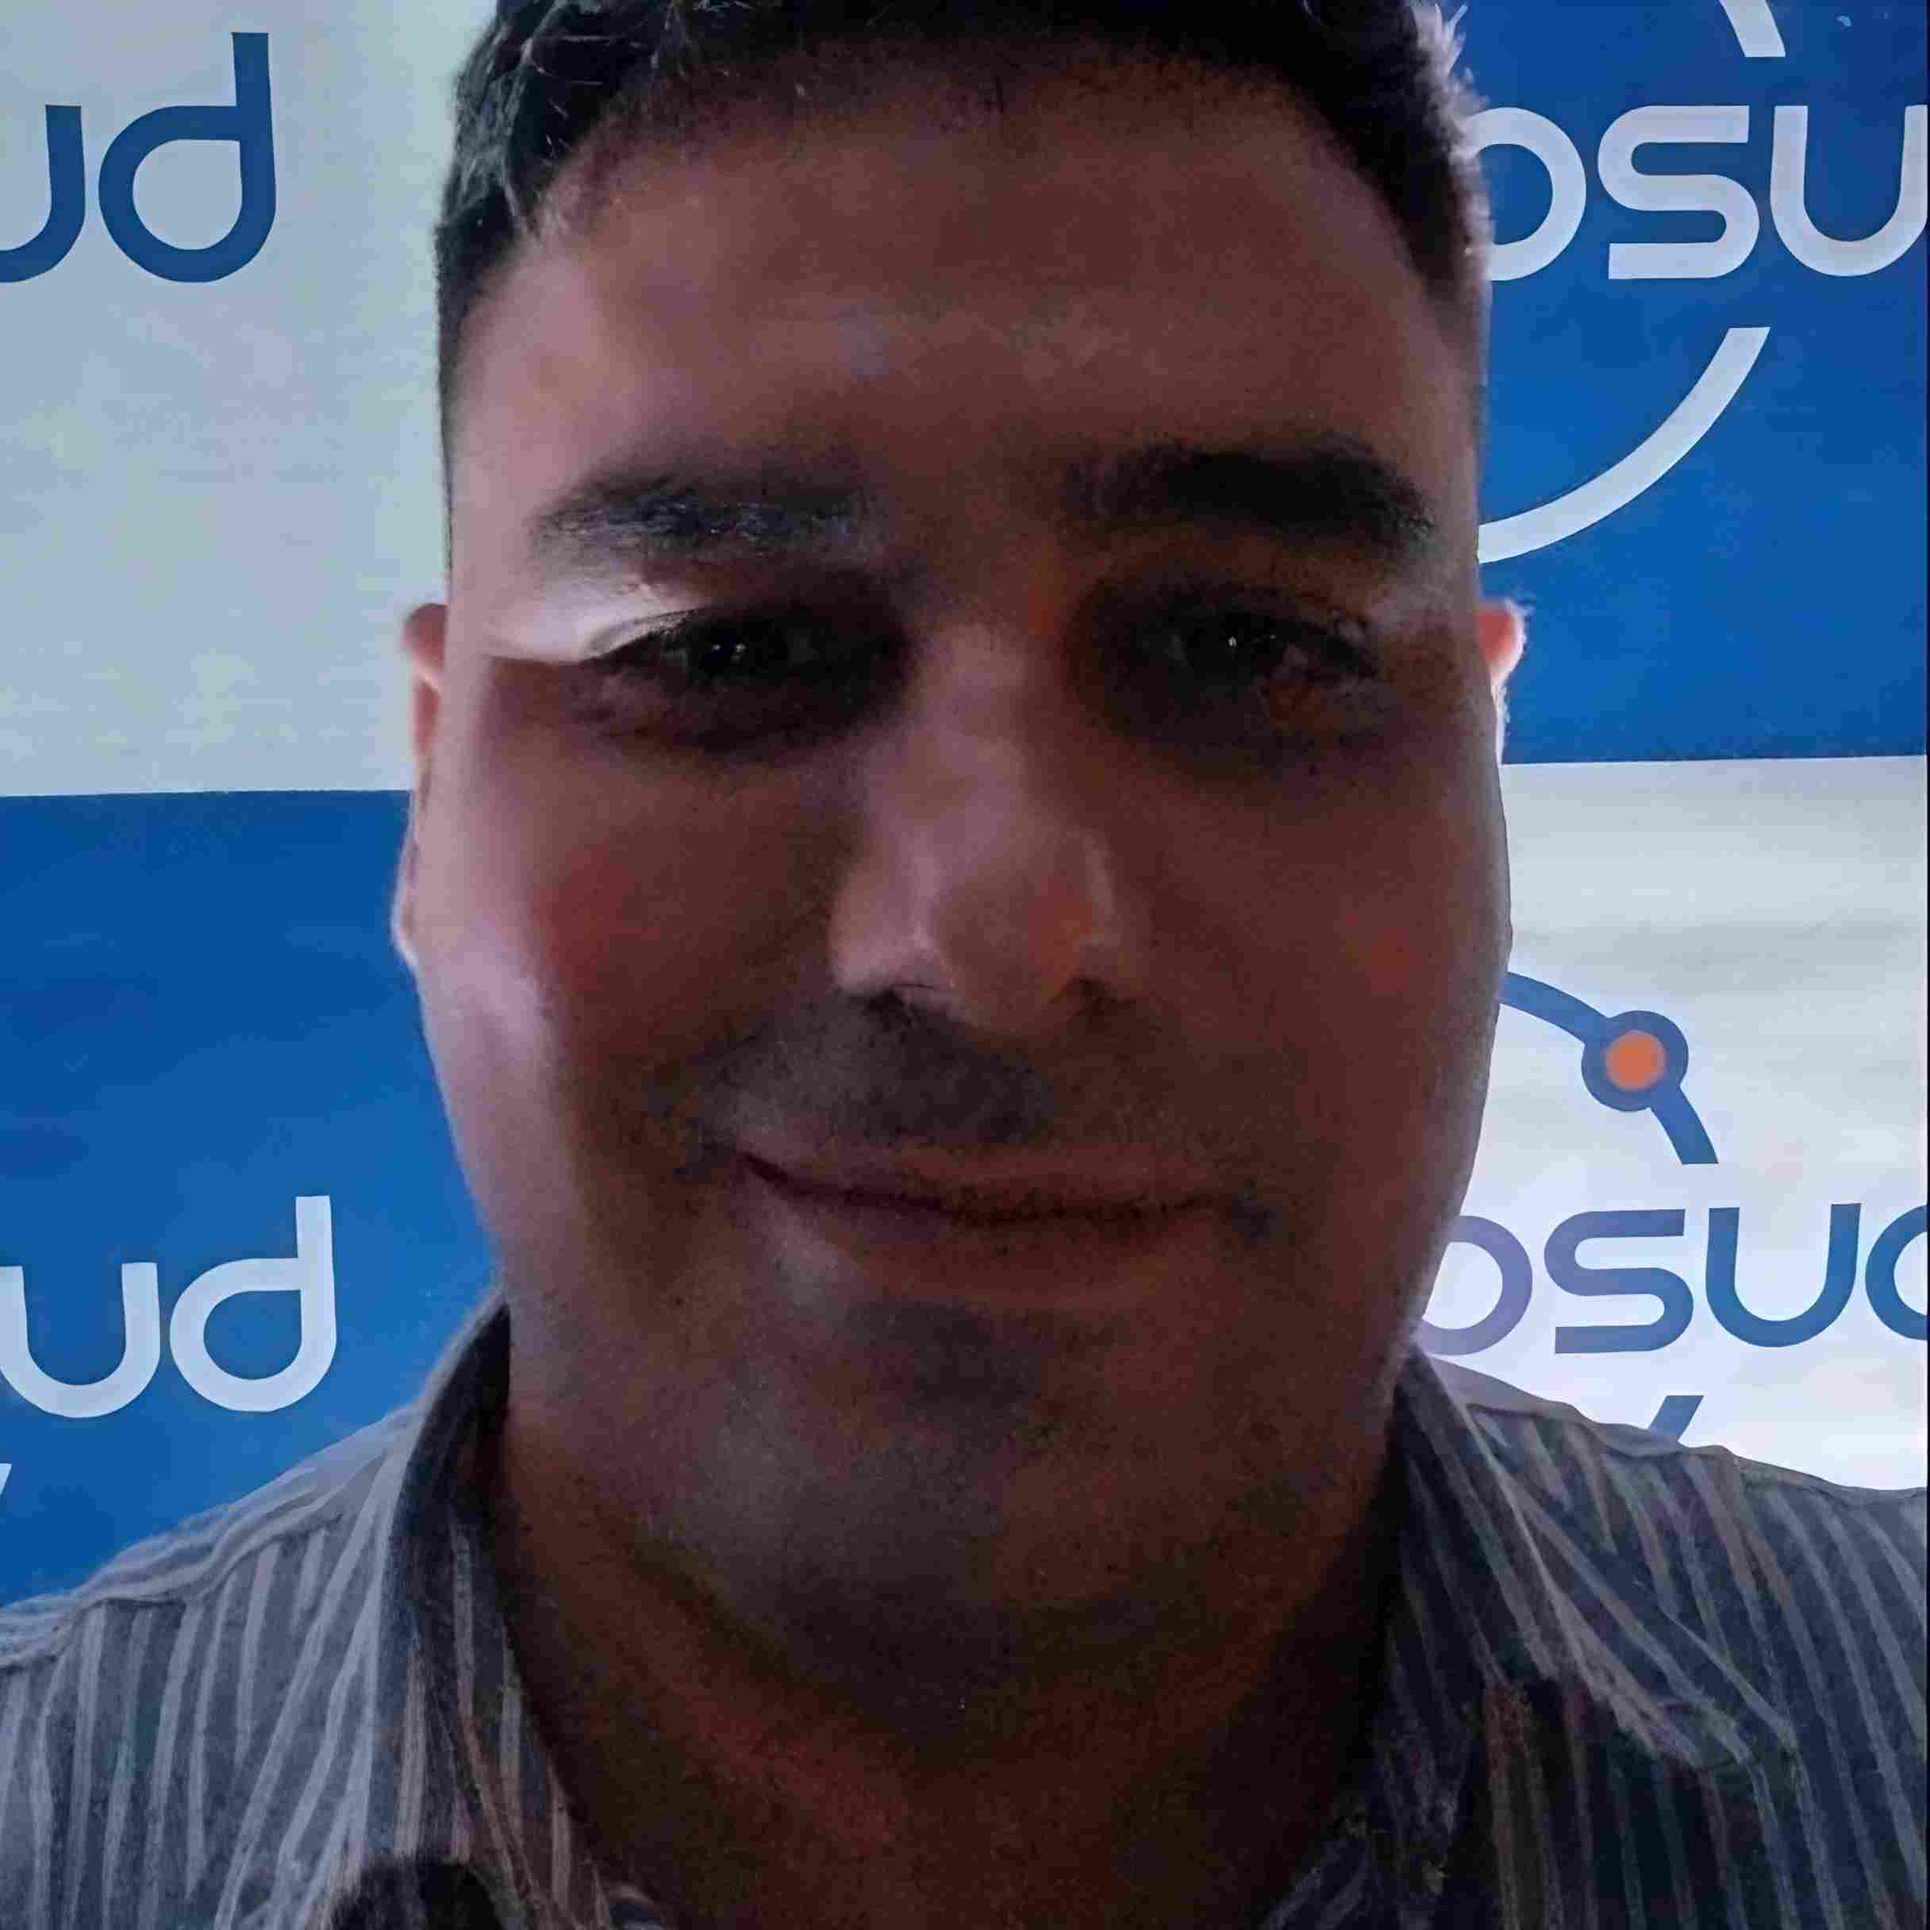
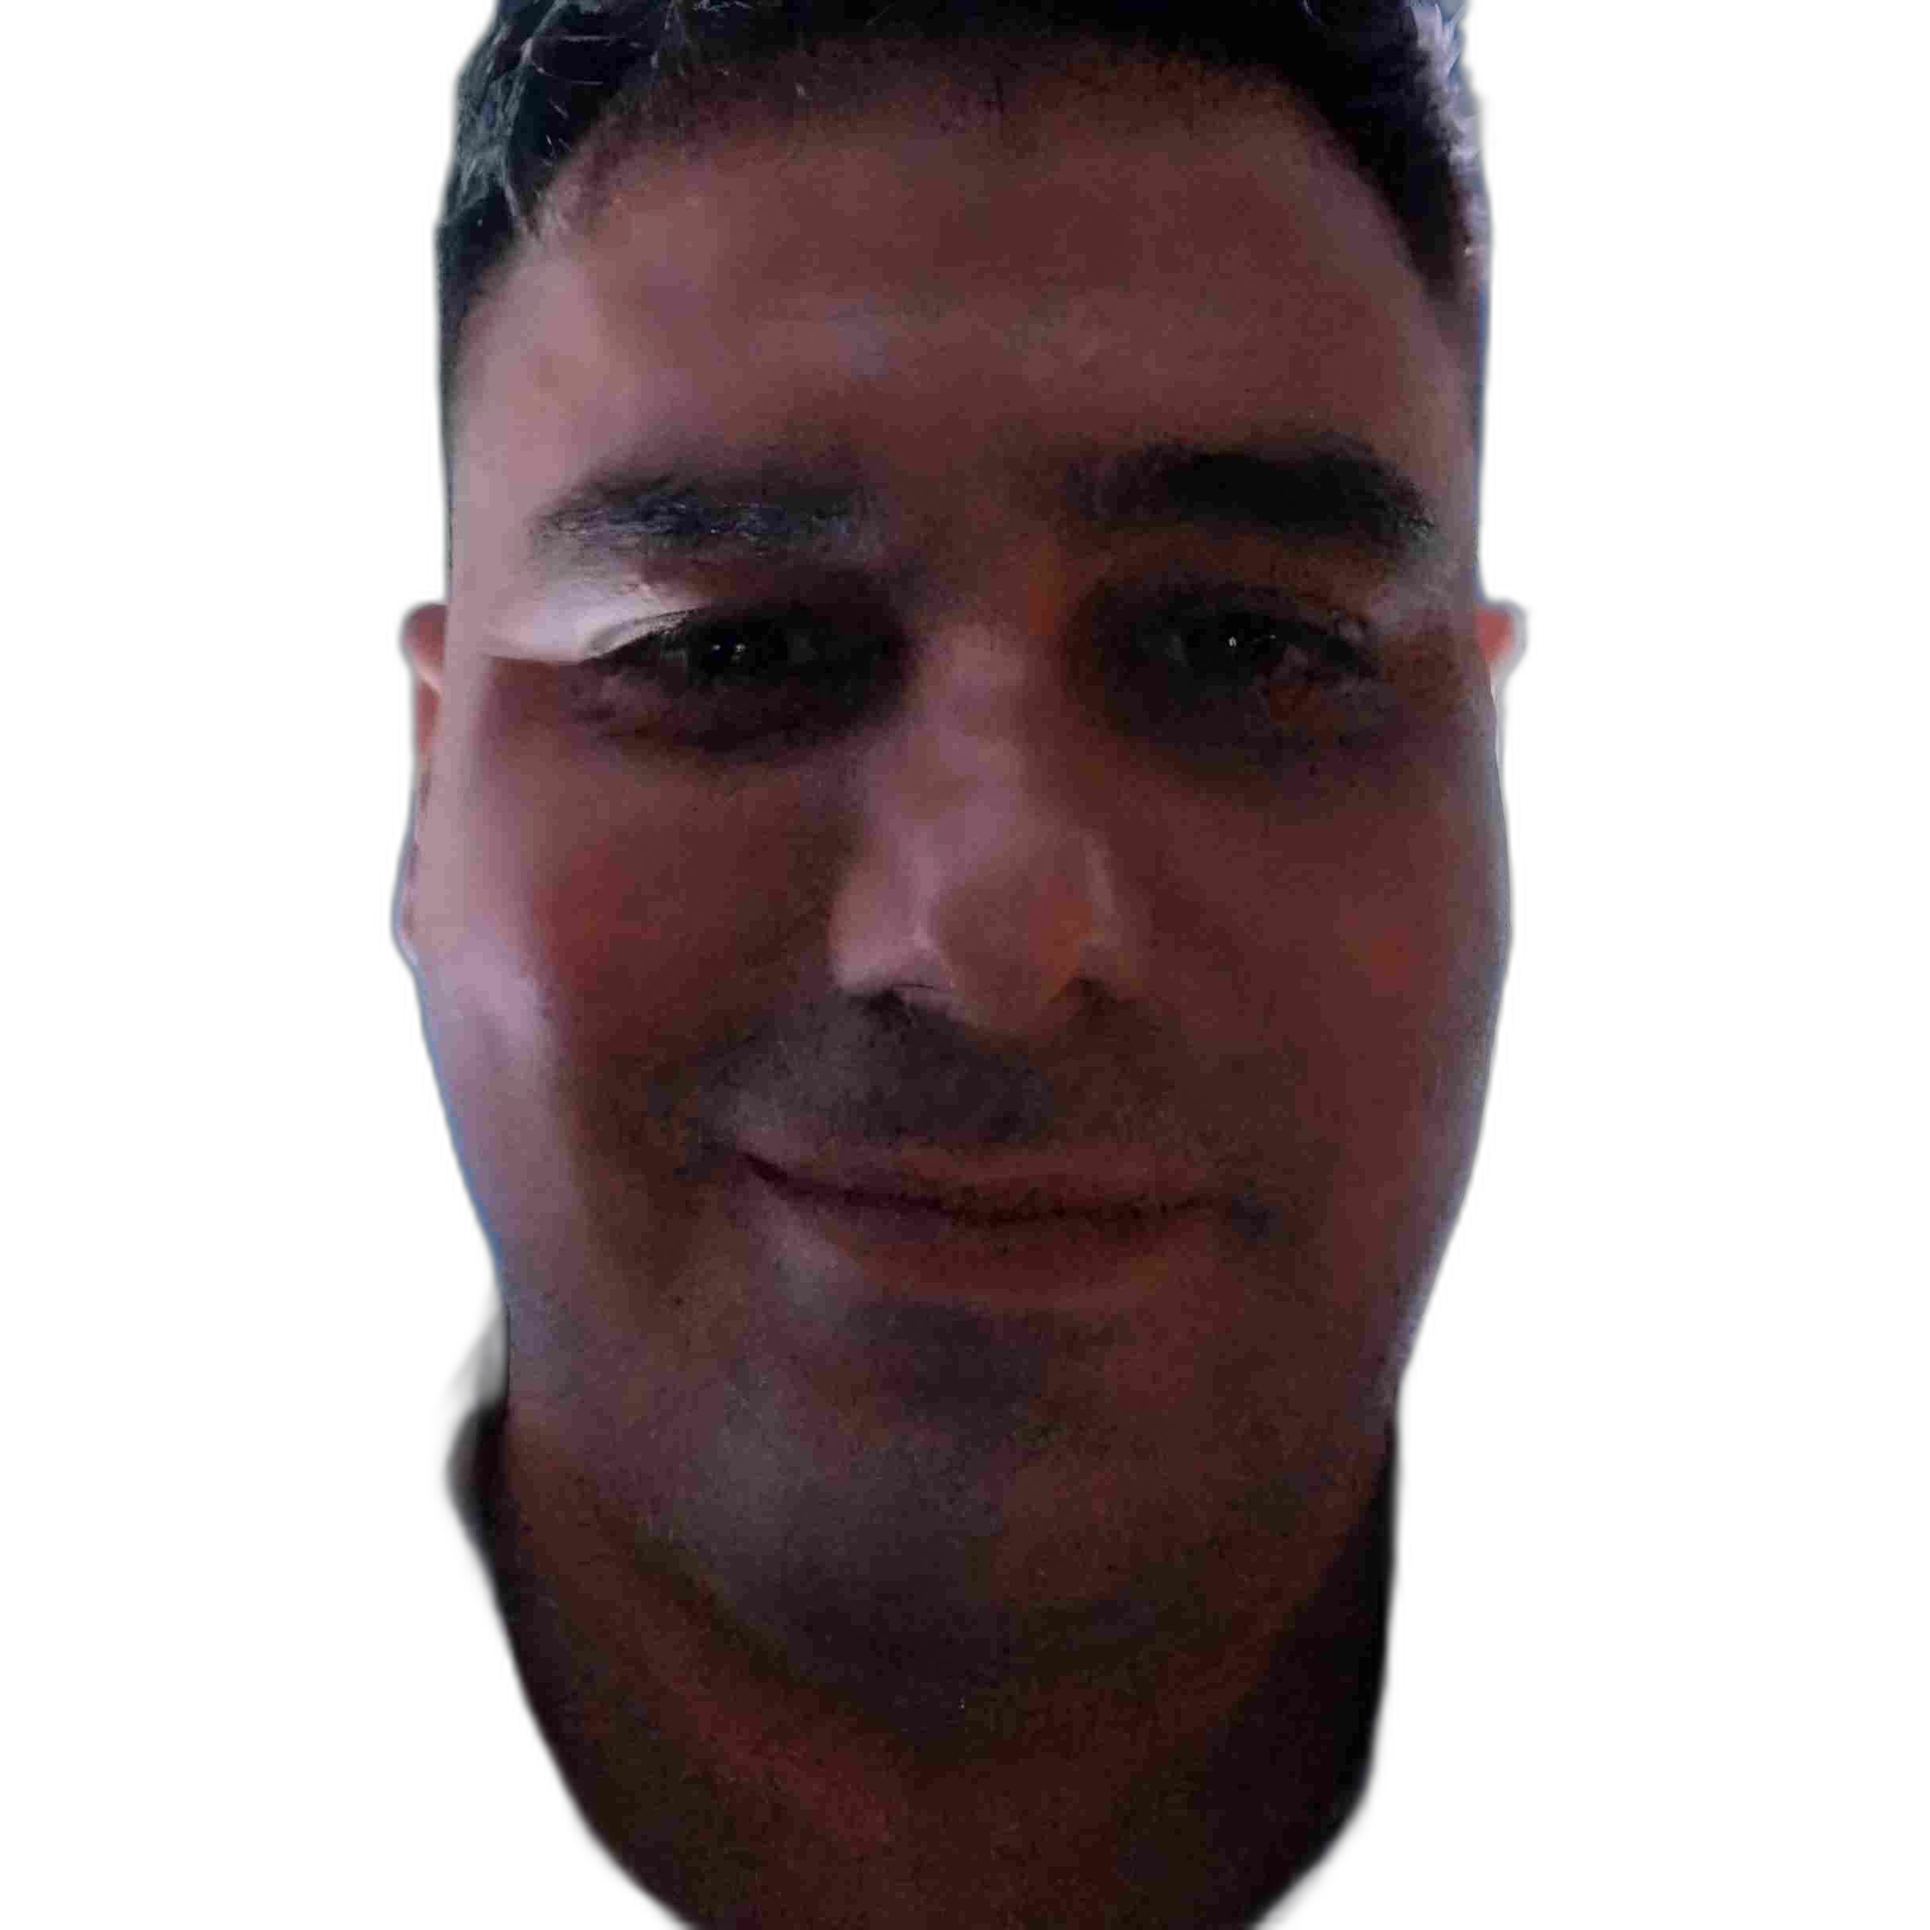
se agrego cambios en la estructura de app.py ademas se sumo un proyecto de graficos

diff --git a/views/pag_plotly.py b/views/pag_plotly.py
@@ -1,0 +1,159 @@
+import streamlit as st 
+import pandas as pd
+import plotly.express as px
+
+from scripts.datos_ejemplo import generar_datos
+
+
+
+st.title("Dashboard de ventas")
+
+
+def cargar_datos():
+    data = generar_datos()
+    df = pd.DataFrame(data)
+    return df
+
+df = cargar_datos()
+
+
+# 2. Widgets interactivos en sidebar
+with st.sidebar:
+    st.header("Filtros")
+    categorias_seleccionada = st.multiselect("Categorias", options=df["Categoria"].unique(), default=df["Categoria"].unique())
+    rango_fechas = st.date_input("Rango de Fechas", value=[df["Fecha"].min(), df["Fecha"].max() ])
+
+
+
+# 3. Filtrar datos
+df_filtrado = df[
+    (df["Categoria"].isin(categorias_seleccionada) ) &
+    (df["Fecha"].between(pd.to_datetime(rango_fechas[0]), pd.to_datetime(rango_fechas[1]) ) )
+]
+
+# st.dataframe(df)
+# st.write(df_filtrado)
+
+
+# 4. Gráficos interactivos
+tab1, tab2, tab3, tab4, tab5 = st.tabs(["Series Temporales", "Geográfico", "Relaciones", "Distribución", "Otros Graficos"]) 
+
+with tab1:
+    # Gráfico de línea con Plotly
+    fig_line = px.line(
+        df_filtrado.groupby("Fecha")["Ventas"].sum().reset_index(),
+        x="Fecha",
+        y="Ventas",
+        title="Tendencias de Ventas Diarias"
+    )
+    st.plotly_chart(fig_line, use_container_width=True)
+
+with tab2:
+    # Mapa interactivo
+    fig_map = px.scatter_geo(
+        df_filtrado,
+        lat="Latitud",
+        lon="Longitud",
+        color="Region",
+        size="Ventas",
+        hover_name="Categoria",
+        projection="natural earth"
+    )
+    st.plotly_chart(fig_map, use_container_width=True)
+
+
+with tab3:
+    # Scatter plot con selección de ejes
+    col1, col2 = st.columns(2)
+    with col1:
+        eje_x = st.selectbox("Eje x", options=["Ventas", "Beneficio", "Rating"])
+    with col2:
+        eje_y = st.selectbox("Eje y", options=["Beneficio", "Rating", "Ventas"])
+    
+    fig_scatter = px.scatter(
+        df_filtrado,
+        x=eje_x,
+        y=eje_y,
+        color="Categoria",
+        trendline="lowess"
+    )
+    st.plotly_chart(fig_scatter, use_container_width=True)
+    
+with tab4:
+    # histograma dinamico
+    bins = st.slider("Numero de bins:", min_value=5, max_value = 50, value = 20, step=5)
+    fig_hist = px.histogram(
+        df_filtrado, 
+        x="Ventas",
+        nbins=bins,
+        color="Region",
+        barmode="overlay"
+    )
+    st.plotly_chart(fig_hist)
+
+with tab5:
+    #Otros graficos
+
+    # Usando el dataset de práctica anterior
+    fig = px.choropleth(
+    df,
+    locations="Region",  # Columna con nombres de países/regiones
+    locationmode="country names",
+    color="Ventas",
+    hover_name="Categoria",
+    animation_frame=df["Fecha"].dt.month,  # Animación por mes 
+    projection="natural earth",
+    title="Ventas Globales por Mes"
+    )
+    fig.update_layout(height=600)
+    st.plotly_chart(fig)
+
+    st.divider()
+    df_radar = df_filtrado.groupby("Categoria")[["Ventas", "Beneficio", "Rating"]].mean().reset_index()
+    fig = px.line_polar(
+    df_radar,
+    title="Grafico Radar con Filtro",
+    r="Ventas",
+    theta="Categoria",
+    line_close=True,
+    color="Beneficio"
+    ,template="plotly_dark"
+    )
+    st.plotly_chart(fig)
+
+    st.divider()
+    tipo_grafico = st.selectbox("Elige el Grafico:", ["Box", "Violin", "Sunburst"])
+
+    match tipo_grafico:
+
+        case "Box":
+            st.write("Box")
+            fig = px.box(df_filtrado, 
+            x="Region", 
+            y="Ventas", 
+            color="Categoria")
+
+        case "Violin":
+            st.write("Violin")
+            fig = px.violin(df_filtrado, 
+            x="Region", 
+            y="Beneficio", 
+            color="Region" ,
+            box=True)
+
+        case "Sunburst":
+            st.write("Sunburst")
+            fig = px.sunburst(
+            df_filtrado, 
+            path=["Region", "Categoria"] , 
+            values="Ventas")
+
+    st.plotly_chart(fig)
+        
+
+
+with st.expander("Datos Filtrados"):
+    st.dataframe(df_filtrado, height=200)
+
+
+    

diff --git a/app.py b/app.py
@@ -1,42 +1,40 @@
 import streamlit as st
 
-from views.pag_compresion_imagen import comprimir_imagens_pag
 
 # --- Configuracion de Pagina ---
-def configuracion_pagina():
-    st.set_page_config(
-        page_title="David Carusso"
+def configuraciones():
+    st.set_page_config(page_title="David Carusso")
+
+ 
+# --- Crea el objeto pagina para luego agrupparlos --- 
+def paginas():
+    pagina_1 = st.Page(
+    page= "views/pag_aboutme.py",
+    title= "Acerca de mi",
+    default=True 
     )
 
-
-def iniciar_menu(): 
-    # --- Crea el objeto pagina para luego agrupparlos --- 
-    pagina_1 = st.Page(
-                page= "views/pag_aboutme.py",
-                title= "Acerca de mi",
-                default=True 
-            )
-
     pagina_2 = st.Page(
-                page= "views/pag_compresion_imagen.py",
-                title="Comprimir Imagen"
-            )
+    page= "views/pag_compresion_imagen.py",
+    title="Comprimir Imagen"
+    )
+
+    pagina_3 = st.Page(
+    page="views/pag_plotly.py",
+    title="Graficos Plotly"
+    )
 
     # --- Crear un diccionario para agrupar en un indice --- 
     pages =  {
-            "Informacion" : [pagina_1] , 
-            "Proyectos" : [pagina_2]
-        }
+    "Informacion" : [pagina_1] , 
+    "Proyectos" : [pagina_2, pagina_3]
+    }
 
     # --- Crea el objeto multipagina --- 
     pg = st.navigation(pages)
     pg.run()
 
 
-# --- Inicializacion de funciones ---
 if __name__ == "__main__":
-    configuracion_pagina()
-    iniciar_menu()
-
-
-
+    configuraciones()
+    paginas()

diff --git a/views/pag_compresion_imagen.py b/views/pag_compresion_imagen.py
@@ -4,9 +4,26 @@ import io
 
 
 
+def descargar_foto(buffer):
+    """
+    Ingresa un buffer que el la imagen comprimida para descargar
+    
+    """
+
+    # Descargar archivo
+    ext = ".jpeg"
+    nombre_archivo = st.text_input("Para Descargar ingresa el nombre del archivo")
+
+    if nombre_archivo:
+        nombre_archivo = nombre_archivo + ext
+        st.download_button("Descargar", data=buffer, file_name = nombre_archivo , mime="image/jpg")
+    else:
+        st.warning("Ingresar un nombre") 
+
+
+
 def comprimir_imagens_pag():
     st.write("# Aplicacion de imagenes")
-
 
     archivo = st.file_uploader("Ingrese una imagen", type=["jpg", "jpeg"])
 
@@ -45,19 +62,13 @@ def comprimir_imagens_pag():
                     "Diferencia" : f"{diferencia_porcentual} %"}
                 )
 
-
-        # Descargar archivo
-        ext = ".jpeg"
-        nombre_archivo = st.text_input("Para Descargar ingresa el nombre del archivo")
-
-        if nombre_archivo:
-            nombre_archivo = nombre_archivo + ext
-            st.download_button("Descargar", data=buffer, file_name = nombre_archivo , mime="image/jpg")
-        else:
-            st.warning("Ingresar un nombre")     
+        descargar_foto(buffer)
+  
 
     else:
-        st.warning("Subir una foto")
+        st.warning("📷 Subir una foto")
+
+
 
 
 comprimir_imagens_pag()

diff --git a/scripts/datos_ejemplo.py b/scripts/datos_ejemplo.py
@@ -1,0 +1,24 @@
+import pandas as pd
+import numpy as np
+
+def generar_datos():
+    # generar datos sintecos 
+    np.random.seed(42)
+    dates = pd.date_range(start="2023-01-01", end="2023-12-31", freq="D")
+    categories = ["Electrónicos", "Ropa", "Alimentos", "Hogar"]
+    regions = ["Norteamérica", "Sudamérica", "Europa", "Asia", "África"]
+
+    data = {
+        "Fecha": np.random.choice(dates, 500),
+        "Categoria": np.random.choice(categories, 500),
+        "Region": np.random.choice(regions, 500),
+        "Ventas": np.random.randint(100, 5000, 500),
+        "Beneficio": np.random.uniform(50, 2500, 500),
+        "Rating": np.random.uniform(1, 5, 500),
+        "Latitud": np.random.uniform(-50, 70, 500),
+        "Longitud": np.random.uniform(-180, 180, 500)
+    }
+
+    return data
+
+

diff --git a/scripts/borrar_fondo.py b/scripts/borrar_fondo.py
@@ -1,0 +1,18 @@
+from rembg import remove
+
+def borrar_fondo_imagen(archivo):
+    #ruta de imagen
+    path_imagen = "image/foto_personal.jpg"
+    #Abrir el archivo 
+    entrada_imagen = archivo.read()
+    #eliminamos el fondo
+    salida_imagen = remove(entrada_imagen)
+
+    return salida_imagen
+
+
+borrar_fondo_imagen()
+
+
+
+
